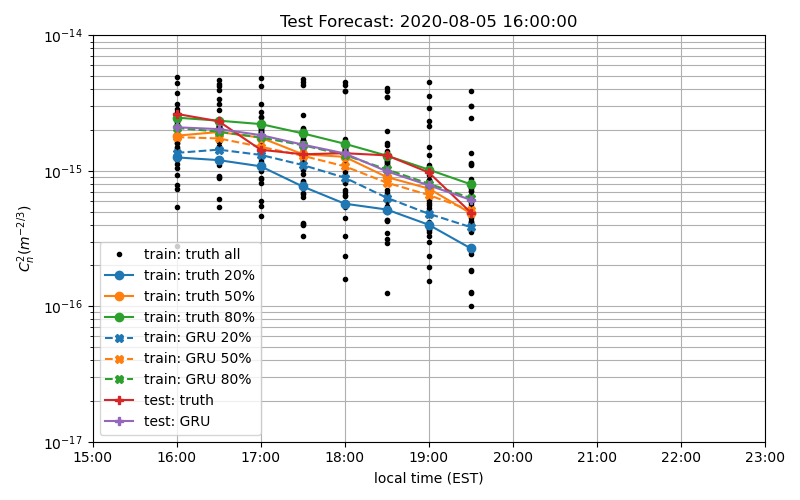
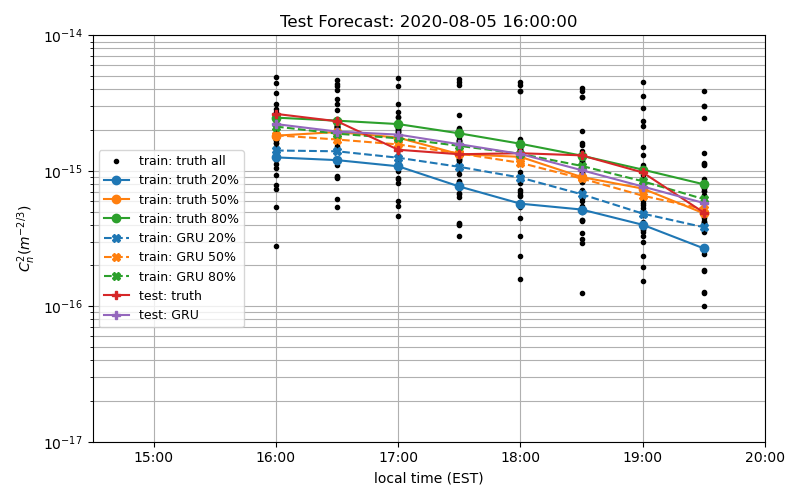
Add files via upload

diff --git a/thesis_manuscript/chapter5.tex b/thesis_manuscript/chapter5.tex
@@ -9,7 +9,7 @@ After determining the best model as applied to the validation dataset, the train
 	\caption{GRU train and test loss curves of 10 models.}
 	\label{fig:GRU_train_test_loss_curves}
 \end{figure}
-The loss curves in Figure \ref{fig:GRU_train_test_loss_curves} indicate that convergence rates of the models as applied to the train and test datasets are consistent with each other, an indication that the test dataset is a good representation of the train dataset. This is further illustrated by bumps in the loss scores in both train and validation loss curves like the single blue and orange spike at epoch 9. The per-epoch variability in the test dataset is higher than the train dataset since the test dataset is much smaller and thus more prone to changes in loss score with an update in model parameters. The 50th (last) epoch loss scores averaged over the 10 models are reported in the legend as 0.2247 and 0.1868 for the train and test dataset, respectively. The standard deviations of the 50th epoch loss scores for the train and test datasets are 0.00134489 and 0.00201262, respectively. As a point of comparison, the best MLP model was also trained then applied to the test dataset 10 times. The average 50th epoch loss scores are 0.2457 and 0.1938 with standard deviations of 0.0027990 and 0.0020191 for the train and test dataset, respectively. These results indicate that as applied to the test dataset, on average the chosen GRU model is better than the best MLP model by a large margin (\textcolor{blue}{add student's t-test p-value here to show significance?}), further validating the selection of the GRU model. The standard deviations of the test dataset loss scores are nearly identical, indicating the stability of the models are similar.
+The loss curves in Figure \ref{fig:GRU_train_test_loss_curves} indicate that convergence rates of the models as applied to the train and test datasets are consistent with each other, an indication that the test dataset is a good representation of the train dataset. This is further illustrated by bumps in the loss scores in both train and validation loss curves like the single blue and orange spike at epoch 9. The per-epoch variability in the test dataset is higher than the train dataset since the test dataset is much smaller and thus more prone to changes in loss score with an update in model parameters. The 50th (last) epoch loss scores averaged over the 10 models are reported in the legend as 0.2247 and 0.1868 for the train and test dataset, respectively. The standard deviations of the 50th epoch loss scores for the train and test datasets are 0.0013 and 0.0020, respectively. As a point of comparison, the best MLP model was also trained then applied to the test dataset 10 times. The average 50th epoch loss scores are 0.2457 and 0.1938 with standard deviations of 0.0027990 and 0.0020191 for the train and test dataset, respectively. These results indicate that as applied to the test dataset, on average the chosen GRU model is better than the best MLP model by a large margin (\textcolor{blue}{add student's t-test p-value here to show significance?}), further validating the selection of the GRU model. The standard deviations of the test dataset loss scores are nearly identical, indicating the stability of the models are similar.
 
 Another way to visualize model convergence is to apply the 10 individually-trained models to the test dataset parsed by day. The test dataset spans 08/03 and 08/05 - 08/10, so each model is evaluated on these seven days. The $log_{10}(C_{n}^{2})$ RMSE loss scores as a function of test day are illustrated in Figure \ref{fig:GRU_daily_performance}. Evaluated over the 10 models, in black is the mean, red the mean $\pm$ the standard deviation, and blue the minimum and maximum scores.
 \begin{figure}[h!]
@@ -32,6 +32,7 @@ For example, evaluating the 06:00 (far left) time of day in Figure \ref{fig:GRU_
 Figure \ref{fig:GRU_hourly_performance} is a summary of model performance as a function of time of day. The trends indicate that best model performance starts around 0.2 (on the y-axis) in the beginning of the day, drops down to around 0.1 in the middle of the day, then rises in the evening to around 0.3. The morning forecasts trend to be around the overall test dataset performance, about 0.18 to 0.20. On average, best performance is in the middle of the day between 11:00 and 15:00 since most of the black and red markers are clustered around 0.1 on the y-axis. In this window a few forecasts are consistently outliers (indicated by the red markers also being an outlier from the trend) in terms of error score. These individual forecasts are of interest for analysis. The high error scores at the end of the day, 16:00 to 18:00, is indicative that there are features of these late-day forecasts which are present in the measurements but are consistently not being captured by the ensemble of models. Generally, Figure \ref{fig:GRU_hourly_performance} indicates the model performs best in the middle of the day, slightly worse in the morning, and generally poorly in the late afternoon and evening.
 
 \section{Daily $C_{n}^{2}$ Forecasts}
+\label{sec:daily_cn2_forecasts}
 After the ensemble study of the GRU models applied to the test dataset, a single GRU model is applied to the test dataset and carefully evaluated in this section. Figures \ref{fig:test_daily_results0} and \ref{fig:test_daily_results1} are daily-$C_{n}^{2}$ plots of the test forecasts and measured truth as a function of local time. Figures \ref{fig:test_daily_results0_a}, \ref{fig:test_daily_results0_b}, \ref{fig:test_daily_results0_c}, and \ref{fig:test_daily_results0_d} plot the forecasts on 08/03 and 08/05 - 08/07, respectively.  Figures \ref{fig:test_daily_results1_a}, \ref{fig:test_daily_results1_b}, and \ref{fig:test_daily_results1_c} plot the forecasts on 08/08 - 08/10, respectively. Each daily-$C_{n}^{2}$ plot contains multiple curves. The black curve represents the truth $C_{n}^{2}$ measured conditions. The other curves which transition in color from cyan to magenta represent the model forecasts throughout the day. The brightest cyan is the earliest forecast in the day, and the brightest magenta is the latest forecast in the day. The forecasts in between are appropriately colored to smoothly transition between the two end colors. The colorbar of each plot in Figures \ref{fig:test_daily_results0} and \ref{fig:test_daily_results1} illustrate the curve color scheme by labeling the forecast's first timestamp next to the color with which it's associated. Additionally, the $log_{10}(C_{n}^{2})$ RMSE loss score between each forecast and measured truth is also labeled in parenthesis next to the colorbars.
 \begin{figure}[h!]
 	\centering
@@ -85,6 +86,7 @@ From the 10-model ensemble study, model performance on 08/09 ranks 4/7 on averag
 The last day of the test dataset, 08/10, is the second worst day of model performance from the 10-model ensemble average in Figure \ref{fig:GRU_daily_performance}. The morning forecasts, which begin at 06:00, generally all predict standard diurnal trends: a slow increase in $C_{n}^{2}$ strength through about 15:00 then a decline. The measured conditions, however, are highly variable both temporally and in $C_{n}^{2}$ strength. Between 06:00 and 15:00 there are five instances of a drop in $C_{n}^{2}$ strength. Likely, at least four of them are weather-induced (possible the 08:00 is morning neutral event). The model forecasts a diurnal trend which follows the trend of the high-strength $C_{n}^{2}$ points over this time period. The 12:00 and 13:00 forecasts predict $C_{n}^{2}$ strength to lower as the afternoon moves into early evening, but the measured conditions actually rise to the highest point in the entire day from 15:30 to 16:30. The 13:00 forecast starts at a lower $C_{n}^{2}$ strength than the surrounding forecasts due to the model having the input sequence information about the very low $C_{n}^{2}$ strength at 12:30. This day again illustrates the the model's inability to accurately forecast high-frequency weather-induced $C_{n}^{2}$ fluctuations. Instead, the model has learned a trend in $C_{n}^{2}$ based on the time of day. The model has also learned to adjust its starting $C_{n}^{2}$ strength based on prior $C_{n}^{2}$ measurements, then settle back into the expected trend. 
 
 \section{Forecast Analysis}
+The model forecasts and corresponding truth measurements from Figures \ref{fig:test_daily_results0} and \ref{fig:test_daily_results1} are rearranged by forecast length. Figure \ref{fig:test_scatter_results} presents a scatter plot of measured $C_{n}^{2}$ on the x-axis and forecasted $C_{n}^{2}$ on the y-axis for each time in the 4-hour model forecasts: 0.5 hour, 1 hour, 1.5 hour, and so on through 4 hours. In each scatter plot, the black markers are the truth values plotted as measured $C_{n}^{2}$ vs. measured $C_{n}^{2}$ to yield the linearly arranged markers. The green markers are the model forecast at the scatter plot's designated forecast time plotted as forecasted $C_{n}^{2}$ vs. measured $C_{n}^{2}$.
 \begin{figure}[p!]
 	\centering
 	\subfloat[\label{fig:test_scatter_results_a}]{
@@ -118,7 +120,19 @@ The last day of the test dataset, 08/10, is the second worst day of model perfor
 	\caption{Scatter plots.}
 	\label{fig:test_scatter_results}
 \end{figure}
+These scatter plots are visually evaluated by how closely the green markers cluster around the black markers. A set that is well clustered around the black points is better than a set that is not well clustered. If the model was perfect, the black markers would directly overlay the green markers. As a quantitative metric of model performance at each forecast hour the average $log_{10}(C_{n}^{2})$ RMSE loss is reported in each legend.
 
+The scatter plot of the first forecast time, 30 minutes, in Figure \ref{fig:test_scatter_results_a} shows a strong clustering of the model forecasts about the measured $C_{n}^{2}$. Excluding one outlier, the range of measured $C_{n}^{2}$ the model is tasked to forecast is only from $5 \times 10^{-16} (m^{-2/3})$ to $3 \times 10^{-15} (m^{-2/3})$, a narrow window. This forecast time also benefits from being closest to the most recently measured $C_{n}^{2}$ and other input sequence variables. Thus, it is expected for this forecast time to do well overall. The RMSE loss score is 0.128, well below the 10-model ensemble average over the whole dataset of 0.1868. The scatter plot of the second time of the model forecasts, 1 hour, in Figure \ref{fig:test_scatter_results_b} shows a slightly worse performance than the 30 minute forecast time. The set of measured points looks very similar to that of 30 minutes, but the clustering of the green model markers about the black truth markers is not as tight. The error score of 0.157 confirms this visual analysis.
+
+The 1.5 and 2 hour forecasts in Figures \ref{fig:test_scatter_results_c} and \ref{fig:test_scatter_results_d} start to clearly show a different set of measured $C_{n}^{2}$ conditions illustrated by the additional black markers toward the middle and lower left corner of the scatter plots. Most of the green model markers have a reasonable cluster around the mid- and high-strength $C_{n}^{2}$ black markers. However, the model struggles to capture measurements below $7 \times 10^{-16} (m^{-2/3})$ as illustrated by the black markers continuing left on the x-axis below this strength, but the green markers staying above $7 \times 10^{-16} (m^{-2/3})$ on the y-axis in Figure \ref{fig:test_scatter_results_c}. In Figure \ref{fig:test_scatter_results_d} is a similar trend, but a couple of model points are beginning to drop into lower strength $C_{n}^{2}$ conditions. The average error scores continue to climb, reaching 0.168 and 0.179 at the 1.5 and 2 hour forecast times, respectively.
+
+The 2.5 and 3 hour forecasts in Figures \ref{fig:test_scatter_results_e} and \ref{fig:test_scatter_results_f} further shown a different set of measurements the model attempts to forecast. Most notable are the increased number of low-strength $C_{n}^{2}$. As forecast time extends further out the number of evening neutral events included in the examined sets also increases. The clustering of the higher-strength $C_{n}^{2}$ conditions continues to slightly deteriorate. The clustering of the green model markers is not as tight about the black truth markers, and more importantly the slope of these green markers is angling more with respect to the slope of the black markers. At low-strength $C_{n}^{2}$ evening neutral events the model is still struggling to forecast $C_{n}^{2}$ that reaches the measured strength. One positive element of these scatter plots is that there are no green markers which are wildly off from it's corresponding black marker. For example, there are no green modeled markers at $2 \times 10^{-15} (m^{-2/3})$ when it's black marker is nearing $1 \times 10^{-16} (m^{-2/3})$. This means the model has generally learned the turbulence conditions well, understanding when to forecast high, medium, and low-strength $C_{n}^{2}$. The error scores for the 2.5 hour and 3 hour forecasts are 0.197 and 0.211, respectively, which follows the trend of increasing error with forecast length.
+
+Finally, the 3.5 and 4 hour forecasts in Figures \ref{fig:test_scatter_results_g} and \ref{fig:test_scatter_results_h} continue to illustrate the trend shown so far: the set of measured $C_{n}^{2}$ to forecast further evolves to include more evening neutral event low-strength conditions. Interestingly, the group of green model markers around the higher-strength $C_{n}^{2}$ is very well clustered with itself, but is at a significant angle with respect to the black truth markers' angle. The model's struggle to capture the deep neutral events is most clearly observed in Figures \ref{fig:test_scatter_results_g} and \ref{fig:test_scatter_results_h}. The model still has learned when to forecast low-strength $C_{n}^{2}$, but cannot reach the required depth. The average loss scores for the 3.5 and 4 hour forecasts are 0.212 and 0.214, respectively.
+
+%The lowest-strength $C_{n}^{2}$ forecasted by the model in the entire test dataset is $3 \times 10^{-16} (m^{-2/3})$ when there are multiple measurements weaker than this level.
+
+Summarizing the scatter plot error scores from Figure \ref{fig:test_scatter_results} is Figure \ref{fig:performance_forecast_length} which plots the loss scores as a function of forecast length. The plot illustrates that as the forecast length increases so does the model performance error. This is an expected result as any forecasting application is expected to decline in performance as forecast time increases.
 \begin{figure}[h!]
 	\centering
 	\includegraphics[width=0.65\textwidth]{performance_forecast_length.png}
@@ -127,23 +141,33 @@ The last day of the test dataset, 08/10, is the second worst day of model perfor
 \end{figure}
 
 \section{Individual Forecast Analysis}
+A final analysis of this model is to understand why it performs well and poorly in specific cases. The section uses the cumulative distribution function (CDF) to statistically illustrate the model's strengths and weaknesses. The CDF is a tool which sorts the given data by magnitude then assigns each sorted data point a percentile from zero (noninclusive) to one (inclusive). The percentile represents the percentage of data points that are less than or equal to the data point's magnitude.
+
+\subsection{2020/08/09 18:00}
+A single trend has been abundantly clear throughout the model analysis: the model struggles to capture the deep evening neutral events. In Section \ref{sec:daily_cn2_forecasts} Figure \ref{fig:test_daily_results1_b} the single worst model forecast in terms of RMSE is the 08/09 18:00 forecast. This is the latest forecast of the day (and all days) and the deep neutral event was noted to be one of the deepest of the entire dataset, making it an excellent candidate for further analysis which goes as follows.
+
+First, every forecast and input sequence from the train dataset whose first timestamp matches the forecast in question, 18:00, is gathered. There are a total of 40 train forecasts whose first timestamp matches this criteria. Next, the 40 train forecasts are sorted by measured (truth) $C_{n}^{2}$ magnitude at each timestamp in the 4-hour forecast, so in this case that yields a 40 x 8 \textcolor{blue}{should this be in non-plain text?} array where each column is sorted. The CDF is then computed per timestamp, yielding eight CDFs in this case where percentiles are associated with specific $C_{n}^{2}$ strengths. Finally, the CDFs of $C_{n}^{2}$ values are interpolated to desired percentiles of  20\%, 50\%, and 80\% for each timestamp, yielding a 3 x 8 array of $C_{n}^{2}$ values. 
+
+The next step in this process applies the trained model to the 40 input sequences from the \textbf{train} dataset which results in 40 model forecasts that correspond with the 40 model forecasts just evaluated to CDF 20\%, 50\%, and 80\%. The exact same process just described - sorting the $C_{n}^{2}$ values per timestamp, calculating the CDF, then interpolating to the desired percentiles - is performed on the 40 train dataset model forecasts.
+
+Figure \ref{fig:analysis_08091800} illustrates this analysis. $C_{n}^{2}$ is plotted as a function of local time of day, and the only forecasts considered are those whose first timestamp is at 18:00. The black markers represent the train dataset truth (measured) $C_{n}^{2}$ at each timestamp in the forecast time being evaluated. Thus, at 18:00, 18:30, and so on through 21:30, there are 40 black markers for each time.
 \begin{figure}[h!]
 	\centering
-	\includegraphics[width=0.65\textwidth]{analysis_202008091800.png}
-	\caption{GRU performance analysis of the 08/09 18:00 forecast. \textbf{REMAKE WITH DIFFERENT XLIM?}}
+	\includegraphics[width=0.85\textwidth]{analysis_202008091800.png}
+	\caption{GRU performance analysis of the 08/09 18:00 forecast.}
 	\label{fig:analysis_08091800}
 \end{figure}
 
 \begin{figure}[h!]
 	\centering
 	\includegraphics[width=0.65\textwidth]{analysis_202008061400.png}
-	\caption{GRU performance analysis of the 08/06 14:00 forecast. \textbf{REMAKE WITH DIFFERENT XLIM?}}
+	\caption{GRU performance analysis of the 08/06 14:00 forecast.}
 	\label{fig:analysis_08061400}
 \end{figure}
 
 \begin{figure}[h!]
 	\centering
 	\includegraphics[width=0.65\textwidth]{analysis_202008051600.png}
-	\caption{GRU performance analysis of the 08/05 16:00 forecast. \textbf{REMAKE WITH DIFFERENT XLIM?}}
+	\caption{GRU performance analysis of the 08/05 16:00 forecast.}
 	\label{fig:analysis_08051600}
 \end{figure}
